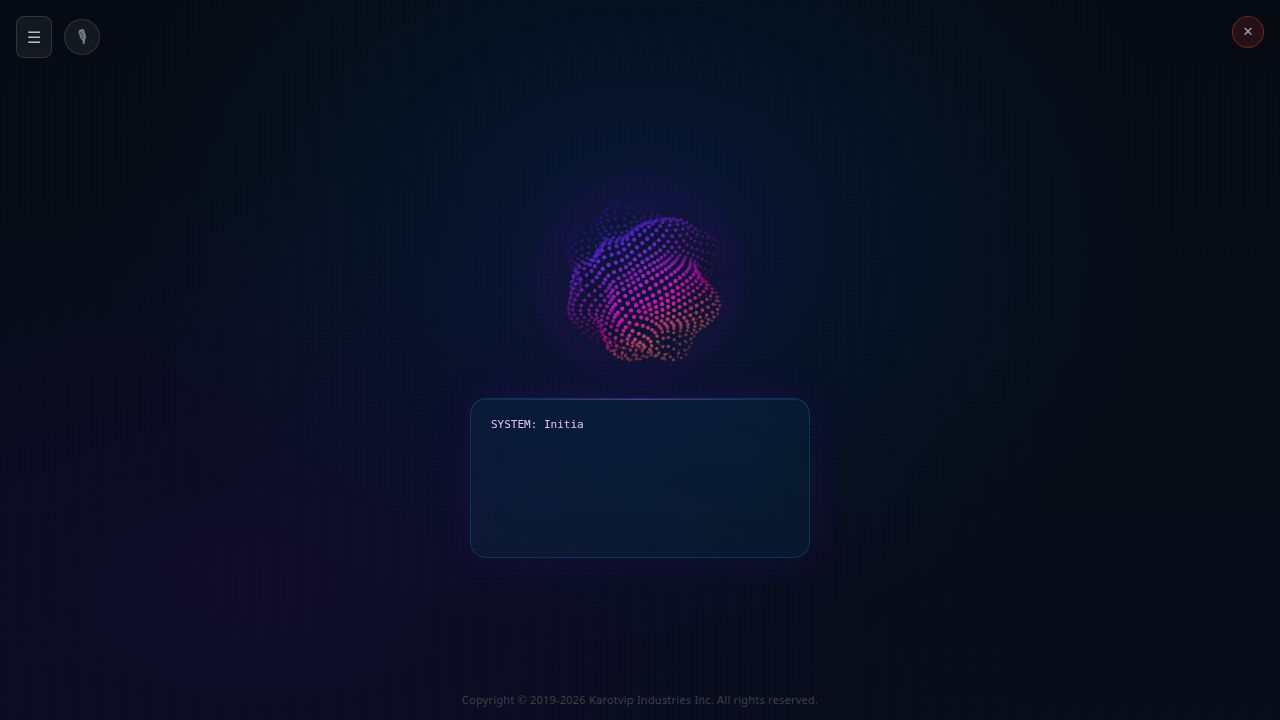
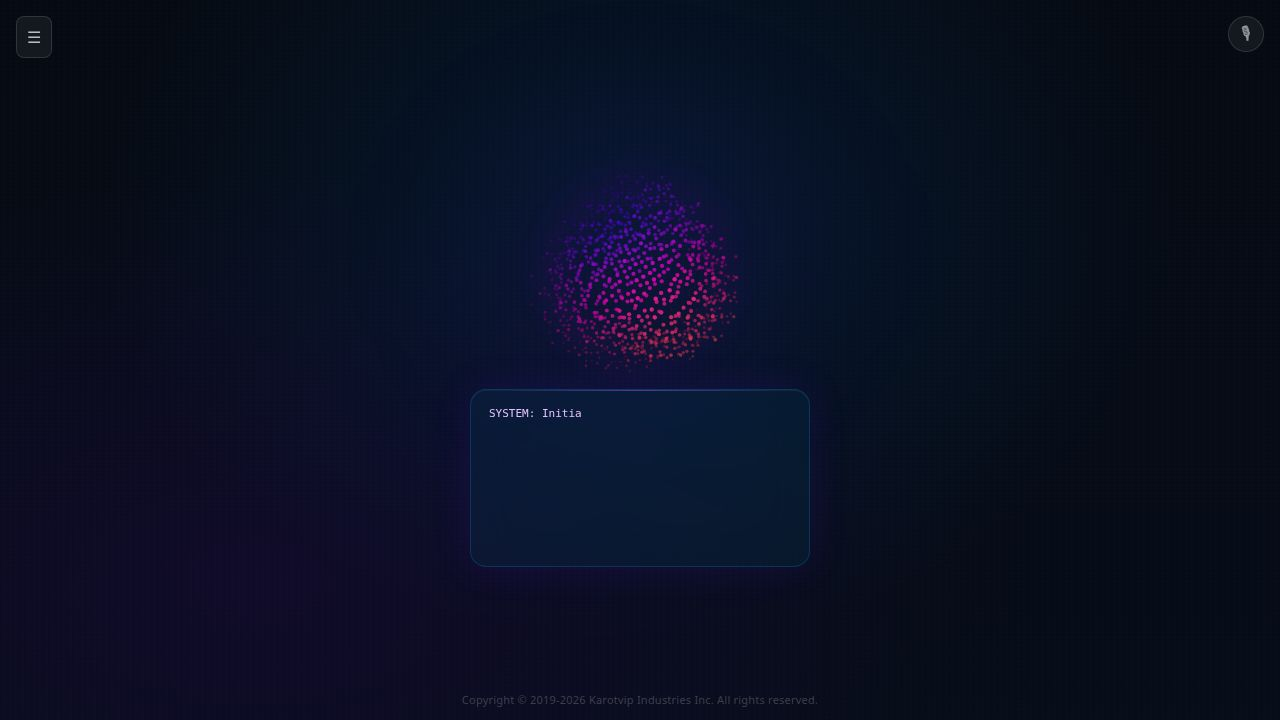
Enhance ocean wave effect and refine UI elements for a dynamic visual experience
Increase particle sphere wave amplitude and add more wave components for intensified ocean deformation. Remove the microphone button from the top-left menu group and set the text frame to a fixed height, ensuring a static visual presentation.

Replit-Commit-Author: Agent
Replit-Commit-Session-Id: a7354514-6acb-4c65-a75c-f6f45a5958c0
Replit-Commit-Checkpoint-Type: full_checkpoint
Replit-Commit-Event-Id: 2cbbe366-2f66-4136-886b-2526ff9c38ec
Replit-Commit-Screenshot-Url: https://storage.googleapis.com/screenshot-production-us-central1/3447a8b3-9e77-451e-ad80-afa0777990e9/a7354514-6acb-4c65-a75c-f6f45a5958c0/ytPgkzW
Replit-Helium-Checkpoint-Created: true

diff --git a/artifacts/karotvip-ui/src/components/ParticleSphere.tsx b/artifacts/karotvip-ui/src/components/ParticleSphere.tsx
@@ -71,21 +71,23 @@ export function ParticleSphere({ size = 240 }: ParticleSphereProps) {
       // Several sine waves propagate across the sphere surface using
       // the point's angular position (theta = longitude, phi = latitude).
       // Waves travel in different directions and speeds for organic look.
-      const waveAmp = 0.18;   // max displacement fraction of R
+      const waveAmp = 0.48;   // max displacement fraction of R — strong ocean deformation
 
       function oceanWave(theta: number, phi: number): number {
-        // wave 1: slow rolling band from south-to-north
-        const w1 = Math.sin(phi * 3.0 + t * 0.9) * 0.45;
-        // wave 2: faster horizontal (east-west) ripple
-        const w2 = Math.sin(theta * 2.5 - t * 1.3) * 0.30;
+        // wave 1: slow deep swell north-to-south
+        const w1 = Math.sin(phi * 2.5 + t * 0.8) * 0.40;
+        // wave 2: rolling east-west band
+        const w2 = Math.sin(theta * 2.0 - t * 1.1) * 0.32;
         // wave 3: diagonal swell
-        const w3 = Math.sin(phi * 2.0 + theta * 1.5 + t * 0.7) * 0.20;
-        // wave 4: small high-freq chop
-        const w4 = Math.sin(phi * 5.0 - theta * 3.0 + t * 1.8) * 0.10;
-        // wave 5: very slow deep swell
-        const w5 = Math.sin(phi * 1.2 + theta * 0.8 - t * 0.4) * 0.25;
-        // combine — result is -1..1
-        return (w1 + w2 + w3 + w4 + w5) / (0.45 + 0.30 + 0.20 + 0.10 + 0.25);
+        const w3 = Math.sin(phi * 1.8 + theta * 1.3 + t * 0.65) * 0.28;
+        // wave 4: secondary fast ripple
+        const w4 = Math.sin(phi * 4.5 - theta * 2.5 + t * 1.6) * 0.18;
+        // wave 5: slow mega-swell (creates big bulge)
+        const w5 = Math.sin(phi * 0.9 + theta * 0.6 - t * 0.35) * 0.38;
+        // wave 6: cross-diagonal churn
+        const w6 = Math.sin(phi * 3.2 - theta * 1.8 + t * 1.0) * 0.20;
+        const total = 0.40 + 0.32 + 0.28 + 0.18 + 0.38 + 0.20;
+        return (w1 + w2 + w3 + w4 + w5 + w6) / total;
       }
 
       // Project all points

diff --git a/artifacts/karotvip-ui/src/App.tsx b/artifacts/karotvip-ui/src/App.tsx
@@ -141,20 +141,6 @@ export default function App() {
           onMouseLeave={e => (e.currentTarget.style.background = "rgba(255,255,255,0.06)")}
           title="Menu"
         >☰</button>
-        <button
-          style={{
-            background: "rgba(255,255,255,0.06)",
-            border: "1px solid rgba(255,255,255,0.12)",
-            borderRadius: "50%", width: 36, height: 36,
-            cursor: "pointer", color: "rgba(255,255,255,0.45)",
-            fontSize: 16, backdropFilter: "blur(10px)",
-            display: "flex", alignItems: "center", justifyContent: "center",
-            transition: "all 0.2s",
-          }}
-          onMouseEnter={e => { (e.currentTarget.style.background = "rgba(160,80,255,0.22)"); playSound("hover"); }}
-          onMouseLeave={e => (e.currentTarget.style.background = "rgba(255,255,255,0.06)")}
-          title="Microphone"
-        >🎙</button>
       </div>
 
       {/* Main layout */}
@@ -170,17 +156,18 @@ export default function App() {
           <ParticleSphere size={240} />
         </div>
 
-        {/* Glass frame — contains the live typewriter text */}
+        {/* Glass frame — static shape, contains the live typewriter text */}
         <div
           className="glass-blue"
           style={{
             width: 340,
-            minHeight: 160,
+            height: 178,
             borderRadius: 16,
-            padding: "16px 20px",
+            padding: "14px 18px",
             boxShadow: "0 0 40px rgba(120,0,255,0.12), inset 0 1px 0 rgba(255,255,255,0.06)",
             position: "relative",
             overflow: "hidden",
+            flexShrink: 0,
           }}
         >
           {/* Subtle inner glow at top */}